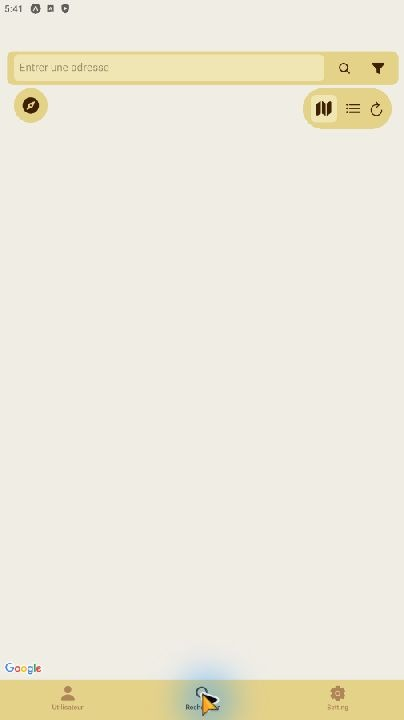
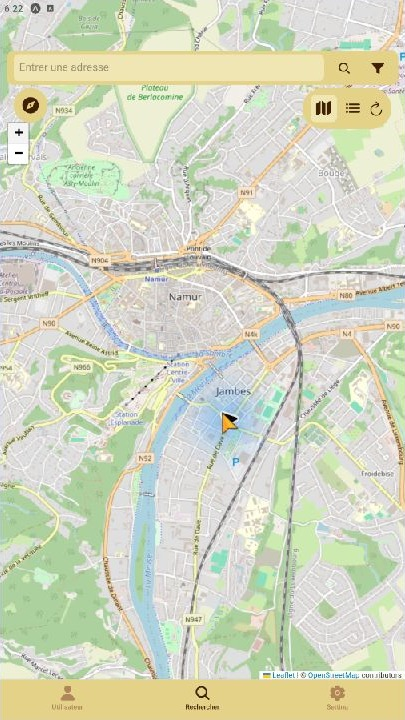
Présente la carte OpenStreetMap et valorise le projet AppBrocante

diff --git a/notes/backoffice-react-appbrocante.md b/notes/backoffice-react-appbrocante.md
@@ -6,7 +6,7 @@ thumbnail: "images/appbrocante/02-brocantes.jpg"
 thumbnailAlt: "Tableau d’administration des brocantes dans AppBrocante"
 ---
 
-AppBrocante est une application consacrée à la découverte et à la localisation de brocantes. Le projet comprend une application mobile React Native, une API Node.js et une interface web d’administration React. J’ai entièrement développé seul le **backoffice avec React**. Le backend a été réalisé en partie avec un autre membre du groupe. La mention « travail de groupe » concerne le projet dans son ensemble et ne remet pas en cause cette répartition.
+AppBrocante est une application consacrée à la découverte et à la localisation de brocantes. Le projet comprend une application mobile React Native, une API Node.js et une interface web d’administration React. J’ai entièrement développé seul le **backoffice avec React**. Le backend a été réalisé en partie avec un autre membre du groupe. Le projet associe ainsi des contributions individuelles et une collaboration sur le backend.
 
 Le backoffice rassemble les brocantes, les brocanteurs, les articles proposés à la vente, les emplacements et les marques d’intérêt des participants. Il donne aux administrateurs une vue structurée des informations et des relations entre ces différents éléments.
 
@@ -96,7 +96,7 @@ La liste permet de consulter et d’entretenir ces données avec les commandes c
 
 La page Statistiques présente une courbe du nombre de brocantes par mois. Deux sélecteurs d’année et de mois définissent les bornes de la période affichée. Le graphique met en évidence la répartition temporelle des événements présents dans la base.
 
-Dans cet exemple, le jeu de données comporte un regroupement de brocantes en décembre 2024, puis plusieurs événements répartis en 2025. Il s’agit d’un indicateur portant sur les événements enregistrés ; il ne mesure ni la fréquentation réelle des brocantes ni le volume des ventes.
+Dans cet exemple, le jeu de données comporte un regroupement de brocantes en décembre 2024, puis plusieurs événements répartis en 2025. Cet indicateur permet de comparer l’activité événementielle d’une période à l’autre.
 
 ![Courbe du nombre de brocantes par mois avec les sélecteurs de période](../../images/appbrocante/09-statistiques.jpg)
 
@@ -110,11 +110,9 @@ L’interface échange avec une **API Node.js et Express**, organisée sous le p
 
 Le modèle relationnel relie les personnes, leurs profils de brocanteur, leurs articles, les brocantes, leurs emplacements et les intérêts exprimés par les utilisateurs. L’API comporte également des fonctions de recherche de brocantes dans un périmètre géographique et entre deux dates. Le backoffice documenté ici sert à administrer ces informations ; la consultation cartographique relève du volet mobile du projet.
 
-### Cadre du backoffice
+### Compétences mobilisées dans le backoffice
 
 Ce backoffice, que j’ai développé intégralement, illustre la construction d’une interface d’administration reliée à une API et à une base relationnelle. Il associe la gestion des données métier, les rôles utilisateurs, la navigation entre rubriques, l’internationalisation et une première visualisation statistique.
-
-Il s’agit d’un prototype pédagogique. Certains formulaires exposent encore les noms techniques des champs et la session de l’interface doit être rouverte après un rechargement complet de la page. Les captures présentent la version existante du projet, sans refonte de son interface.
 
 ## 2. Annexe — Application Mobile Localisation de Brocante
 
@@ -122,7 +120,7 @@ Il s’agit d’un prototype pédagogique. Certains formulaires exposent encore 
 
 L’application mobile est développée avec **React Native 0.76 et Expo SDK 52**. Pour cette visite, elle a été lancée en mode développement dans Expo Go, sur l’émulateur Android BlueStacks installé sur le PC. Les captures sont de véritables écrans Android ; le cadre et les publicités de l’émulateur ont été retirés du cadrage.
 
-La remise en route a nécessité deux adaptations dans une copie locale de développement : remplacer l’ancienne adresse réseau de l’API et lire la propriété `token` de la réponse de connexion actuelle. Les sources d’origine ont été conservées. Le serveur Expo fournit le code JavaScript à Expo Go, tandis que les données métier proviennent de la même API et de la même base PostgreSQL que le backoffice.
+Le serveur Expo fournit le code JavaScript à Expo Go. L’application mobile échange avec la même API et la même base PostgreSQL que le backoffice, et intègre un fond cartographique OpenStreetMap.
 
 ### Se connecter et accéder à son compte
 
@@ -132,11 +130,11 @@ L’onglet Utilisateur présente le logo, le nom d’utilisateur et le mot de pa
 
 *Figure 10 — Écran de connexion mobile : les identifiants sont transmis à l’API avant l’ouverture du profil utilisateur.*
 
-Le formulaire d’inscription regroupe le prénom, le nom, le nom d’utilisateur, l’adresse, le numéro de téléphone, l’adresse e-mail et le mot de passe. Dans cette version du mobile, le bouton « Créer un compte » n’est pas encore raccordé à un traitement de soumission : la capture présente donc l’interface d’inscription, sans prétendre qu’un nouveau compte a été créé. L’API possède de son côté une route de création de personne.
+Le formulaire d’inscription regroupe le prénom, le nom, le nom d’utilisateur, l’adresse, le numéro de téléphone, l’adresse e-mail et le mot de passe. Les informations de profil et de connexion sont ainsi réunies dans une interface commune.
 
 ![Formulaire Android d’inscription avec les informations de profil et de connexion](../../images/appbrocante/mobile/11-inscription.jpg)
 
-*Figure 11 — Formulaire d’inscription : les informations nécessaires au compte sont rassemblées sur un écran ; la soumission reste à raccorder dans cette version.*
+*Figure 11 — Formulaire d’inscription : les informations de profil et de connexion sont rassemblées sur un écran.*
 
 ### Entretenir son profil et son activité de brocanteur
 
@@ -160,37 +158,35 @@ Le bouton « Modifier » ouvre un formulaire prérempli sous la liste. Il permet
 
 ![Formulaire mobile prérempli pour la modification d’un article du brocanteur](../../images/appbrocante/mobile/14-edition-article.jpg)
 
-*Figure 14 — Édition d’un article : la fiche de la lampe est préremplie ; l’utilisateur peut préparer une modification ou annuler. Aucune suppression n’a été effectuée pendant cette visite.*
+*Figure 14 — Édition d’un article : la fiche de la lampe est préremplie ; l’utilisateur peut préparer une modification ou annuler.*
 
 ### Rechercher des brocantes et régler les filtres
 
-La navigation principale comporte les onglets Utilisateur, Rechercher et Setting. L’écran de recherche réunit un champ d’adresse, une commande de filtrage, un bouton d’orientation et des commandes pour basculer entre carte et liste ou actualiser les résultats. La carte utilise `react-native-maps` et la localisation de l’appareil passe par `expo-location`.
+La navigation principale comporte les onglets Utilisateur, Rechercher et Setting. L’écran de recherche réunit un champ d’adresse, une commande de filtrage, un bouton d’orientation et des commandes pour basculer entre carte et liste ou actualiser les résultats. Le fond OpenStreetMap est affiché avec Leaflet dans une `react-native-webview`. Cette solution fonctionne dans Expo Go et permet de déplacer la carte et de zoomer sans clé Google Maps pour le fond cartographique. L’attribution OpenStreetMap reste visible en bas de l’écran.
 
-Dans cette session Android, le fond cartographique et les marqueurs ne se sont pas affichés. L’appel géographique de l’API a répondu `200` avec une liste vide. La capture conserve cet état réel : elle permet d’examiner les commandes de recherche, mais ne constitue pas une validation de la localisation des brocantes sur une carte.
+La vue initiale présente Namur et ses environs. Le fond OpenStreetMap permet d’explorer les quartiers, les axes routiers et les repères géographiques grâce au zoom et au déplacement tactile. La localisation de l’appareil est gérée par `expo-location`, avec l’autorisation de l’utilisateur.
 
-![Écran mobile de recherche avec les commandes de carte, de liste et de filtrage, sans résultat cartographique dans cette session](../../images/appbrocante/mobile/15-recherche-carte.jpg)
+![Carte OpenStreetMap de Namur dans l’application Android, avec les commandes de zoom, de recherche et de filtrage](../../images/appbrocante/mobile/15-recherche-carte.jpg)
 
-*Figure 15 — Écran de recherche mobile : les commandes de navigation et de filtrage sont accessibles ; la carte et les résultats géographiques restent vides dans l’environnement de démonstration.*
+*Figure 15 — Écran de recherche mobile : le fond OpenStreetMap présente Namur et Jambes. L’utilisateur peut déplacer la carte et ajuster le zoom tout en conservant l’accès à la recherche, aux filtres et à la vue en liste.*
 
 Le panneau de filtres propose un rayon en kilomètres et deux dates au format `YYYY-MM-DD`. Le code envoie le rayon à la recherche géographique du backend, puis applique les conditions de date dans le mobile sur les résultats reçus. Le bouton « Annuler » referme le panneau sans appliquer ces critères.
 
-![Panneau mobile de filtres avec un rayon en kilomètres et les dates de début et de fin](../../images/appbrocante/mobile/16-filtres.jpg)
+![Panneau mobile de filtres superposé à la carte OpenStreetMap, avec un rayon en kilomètres et les dates de début et de fin](../../images/appbrocante/mobile/16-filtres.jpg)
 
-*Figure 16 — Filtres de recherche : l’utilisateur peut renseigner un rayon et une période avant de relancer la sélection des brocantes.*
+*Figure 16 — Filtres de recherche superposés à la carte OpenStreetMap : l’utilisateur peut renseigner un rayon et une période avant de relancer la sélection des brocantes.*
 
 ### Préférences et langues
 
-La page Setting présente un sélecteur de langue. Les dictionnaires français, anglais et néerlandais sont gérés dans l’état Redux et utilisés par les différents écrans. L’interface propose aussi un interrupteur de mode sombre ; dans cette version, il change un état local sans appliquer un thème sombre global à l’application.
+La page Setting présente un sélecteur de langue. Les dictionnaires français, anglais et néerlandais sont gérés dans l’état Redux et utilisés par les différents écrans. Cette centralisation assure une présentation cohérente des libellés pendant la navigation.
 
 ![Préférences mobiles avec le choix de langue et l’interrupteur de mode sombre](../../images/appbrocante/mobile/17-parametres.jpg)
 
-*Figure 17 — Préférences de l’application : le choix de langue est centralisé, tandis que l’interrupteur de mode sombre reste une commande de prototype.*
+*Figure 17 — Préférences de l’application : le sélecteur permet de choisir la langue utilisée dans les écrans du mobile.*
 
-### Parcours complémentaires présents dans le code
+### Parcours complémentaires autour des brocantes
 
 La fiche d’une brocante est prévue pour présenter son thème, son adresse, ses dates et ses avis, puis ouvrir ses intérêts et ses emplacements. Le parcours des intérêts associe une personne à l’événement ; celui des emplacements affiche leur disponibilité et leur superficie. Les écrans de détail permettent aussi de poursuivre vers les personnes et les brocanteurs associés.
-
-Ces parcours ont été examinés dans les sources et leurs routes de lecture ont été vérifiées séparément lorsque possible. Ils ne sont pas présentés comme une visite complète depuis la carte : la recherche géographique vide n’a pas permis de les parcourir de bout en bout dans cette session. La connexion, le profil, le catalogue, l’ouverture du formulaire d’édition, les filtres et les préférences ont en revanche été visités dans l’émulateur.
 
 ## 3. Backend Node.js — parcours, droits et données partagées
 
@@ -222,7 +218,7 @@ Le parcours commence par `POST /client/person/login`. Le serveur recherche la pe
 
 Le mobile peut ouvrir le profil d’un compte client après connexion. Le backoffice applique un contrôle supplémentaire dans son fournisseur d’authentification : il n’ouvre sa navigation de gestion que si `isAdmin` est vrai. L’API renouvelle ce contrôle sur les routes `/admin` avec les middlewares `jwtCheck`, `admin` et, sur les parcours concernés, `notBanned`. Masquer un écran ne constitue donc pas le seul contrôle d’accès.
 
-Les vérifications suivantes ont été réalisées sur l’API locale avec les comptes de démonstration. Elles ne dépendent pas de la réussite de l’affichage cartographique.
+Les vérifications de l’API illustrent la séparation des droits entre consultation personnelle et administration globale.
 
 | Vérification effectuée | Réponse observée | Conséquence |
 | --- | --- | --- |
@@ -237,15 +233,15 @@ Les vérifications suivantes ont été réalisées sur l’API locale avec les c
 
 Sur mobile, le catalogue du compte connecté appelle `GET /client/article/:personId`. Il affiche les objets du vendeur sous forme de cartes. Une modification passe ensuite par `PATCH /dealer/article` : le serveur exige un statut de brocanteur, valide les champs et vérifie que l’article appartient à la personne connectée avant de mettre à jour la ligne PostgreSQL.
 
-Dans le backoffice, les routes `/admin/article` donnent une vue globale des articles et les opérations d’administration correspondantes. Une modification enregistrée par le vendeur concerne donc le même objet que celui consulté dans le tableau administrateur. Les interfaces rechargent leurs données par des appels HTTP ; il n’y a pas de synchronisation instantanée par WebSocket dans ce projet.
+Dans le backoffice, les routes `/admin/article` donnent une vue globale des articles et les opérations d’administration correspondantes. Une modification enregistrée par le vendeur concerne le même objet que celui consulté dans le tableau administrateur. Les interfaces actualisent leurs données par des appels HTTP à cette API commune.
 
 ### Parcours d’une brocante et recherche géographique
 
 Le backoffice consulte les événements avec `/admin/fleaMarket/all`, les recherche par titre et soumet leurs formulaires d’ajout ou d’édition. Le mobile utilise notamment `/client/fleaMarket/inRange` et `/client/fleaMarket/inDates`. Ces routes lisent la même table `flea_market`, mais répondent à un besoin de découverte plutôt qu’à un besoin de gestion globale.
 
-La recherche par rayon mérite une distinction : **le backend calcule la distance depuis l’adresse du profil utilisateur**, et non depuis les coordonnées GPS envoyées par le téléphone. Il géocode cette adresse et celles des brocantes avec OpenCage, calcule les distances puis conserve les événements dans le rayon demandé. Dans le mobile, les services de localisation et le géocodage Google interviennent séparément pour la présentation de la carte. Une adresse de profil absente, un géocodage indisponible ou un problème de carte peuvent donc affecter des étapes différentes du parcours.
+La recherche par rayon utilise **l’adresse du profil utilisateur comme point de référence**. Le backend géocode cette adresse et celles des brocantes avec OpenCage, calcule les distances puis sélectionne les événements dans le rayon demandé. Dans le mobile, le fond OpenStreetMap fournit le contexte visuel ; le géocodage des adresses de brocantes prépare séparément les coordonnées des marqueurs.
 
-La recherche par dates interroge directement PostgreSQL sur les dates de début des brocantes. La page de statistiques du backoffice s’appuie sur ce parcours de lecture pour construire sa répartition mensuelle. Lors de cette visite, la recherche par dates a retourné les dix événements de démonstration, alors que la recherche géographique testée a retourné une liste vide.
+La recherche par dates interroge directement PostgreSQL sur les dates de début des brocantes. La page de statistiques du backoffice s’appuie sur ce parcours de lecture pour construire sa répartition mensuelle.
 
 ### Intérêts, emplacements et intégrité des relations
 
@@ -255,12 +251,12 @@ La suppression d’une brocante montre comment le contrôleur protège la cohér
 
 ### Modération et évolution des rôles
 
-Les commandes « Bannir », « Débannir », « Promouvoir » et « Rétrograder » du backoffice appellent les routes `/admin/moderation` et `/admin/promotion`. Elles modifient les attributs du compte dans PostgreSQL. Le parcours de bannissement prévoit également une notification par e-mail ; aucun envoi de ce type n’a été déclenché pendant la visite.
+Les commandes « Bannir », « Débannir », « Promouvoir » et « Rétrograder » du backoffice appellent les routes `/admin/moderation` et `/admin/promotion`. Elles modifient les attributs du compte dans PostgreSQL. Le parcours de bannissement prévoit également une notification par e-mail.
 
-Les autorisations présentes dans le jeton sont établies à la connexion. Un changement de rôle doit donc être distingué du renouvellement de la session : cette version ne met pas en œuvre une révocation immédiate de tous les jetons déjà délivrés. Cette précision permet de comprendre la répercussion des actions du backoffice sur les connexions suivantes du mobile et de l’interface d’administration.
+Les autorisations présentes dans le jeton sont établies à la connexion. Les sessions suivantes prennent ainsi en compte les rôles enregistrés par l’administrateur, aussi bien dans le mobile que dans le backoffice.
 
-### Périmètre de la démonstration
+### Compétences mobilisées dans le projet
 
-La documentation combine une visite du backoffice, une exécution Android réelle du mobile et des vérifications HTTP du backend. La partie mobile a été relancée avec deux adaptations de compatibilité dans une copie de développement. Les limites observées — carte vide, recherche géographique sans résultat et inscription mobile non raccordée — sont conservées dans la présentation pour distinguer les parcours effectivement visités des fonctionnalités présentes dans les sources.
+Ce projet réunit une interface d’administration React, une application mobile React Native et une API Node.js autour d’une base PostgreSQL commune. Il illustre la conception de parcours complémentaires, la gestion des rôles, l’intégrité des données et l’intégration d’une carte OpenStreetMap dans une application Expo.
 
 Le code du projet est disponible dans le dépôt AppBrocante : [https://github.com/etu51424/appBrocante](https://github.com/etu51424/appBrocante).
